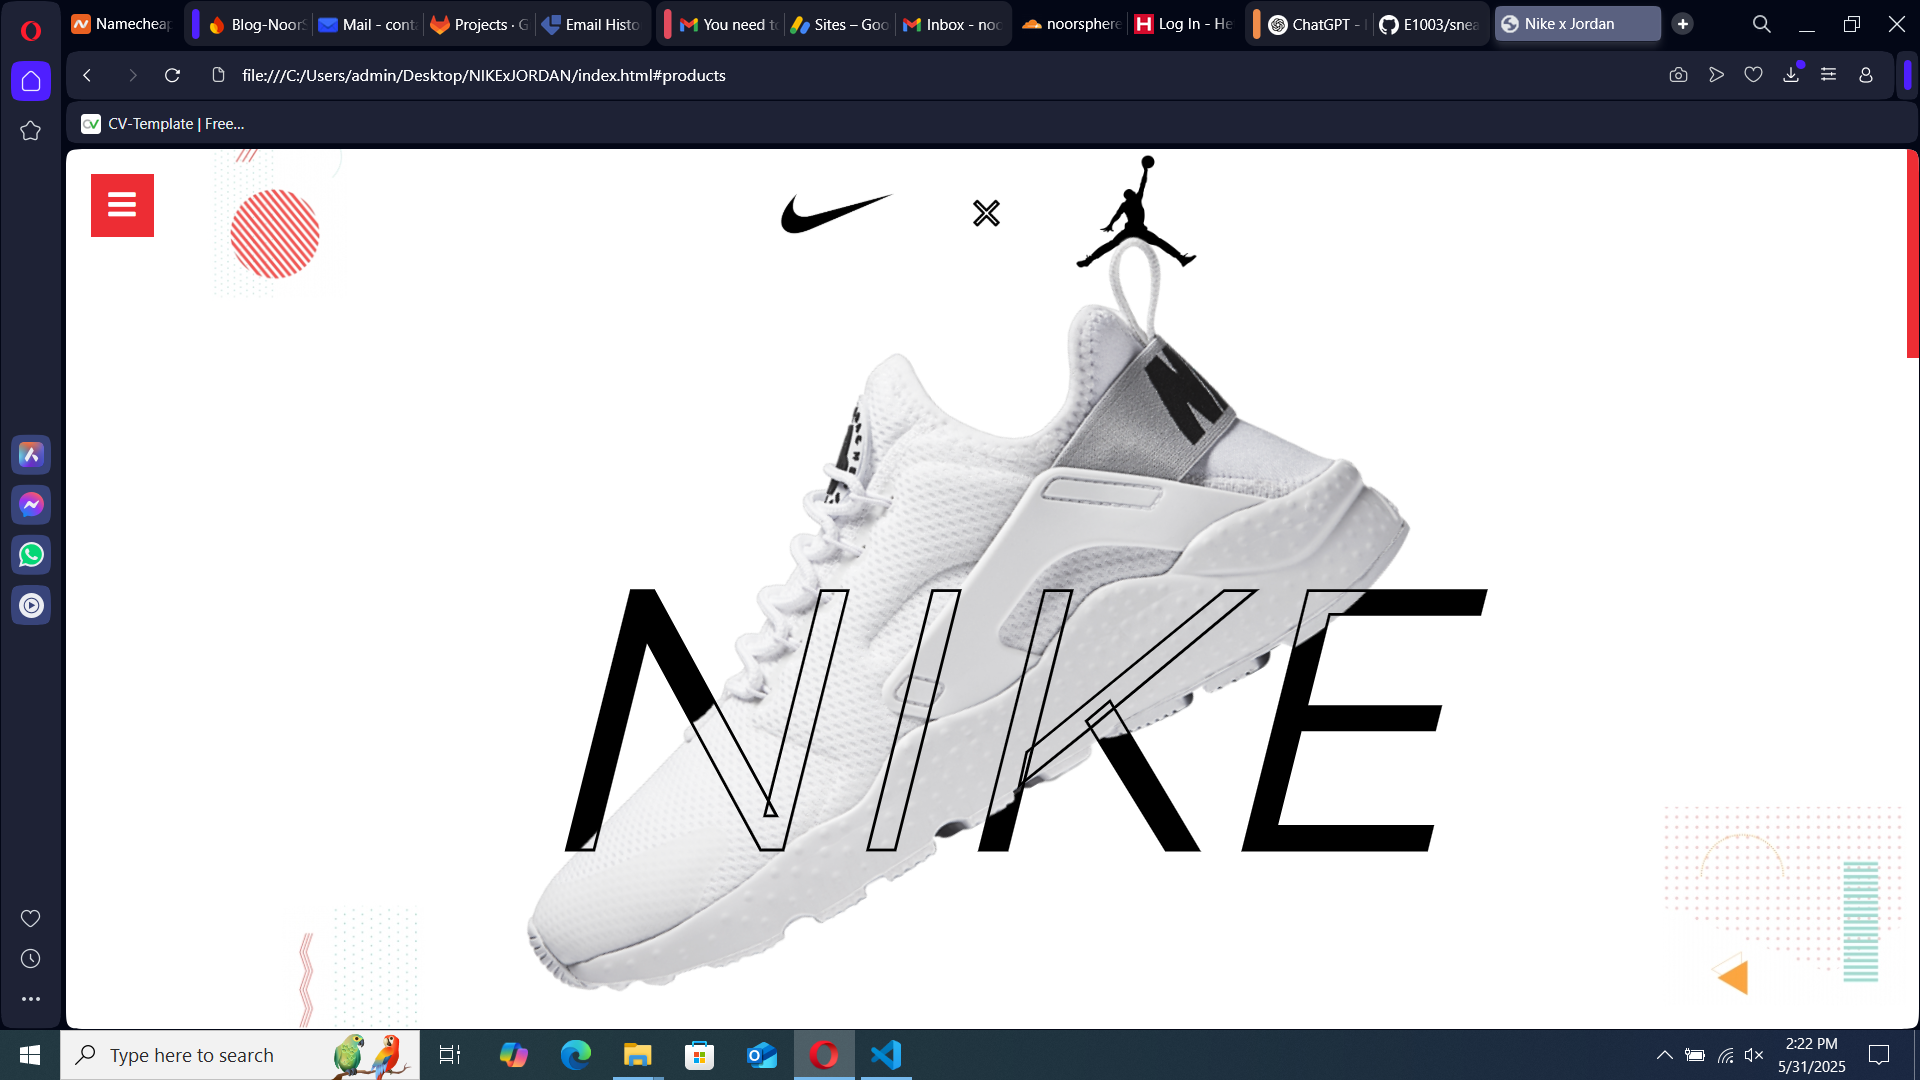
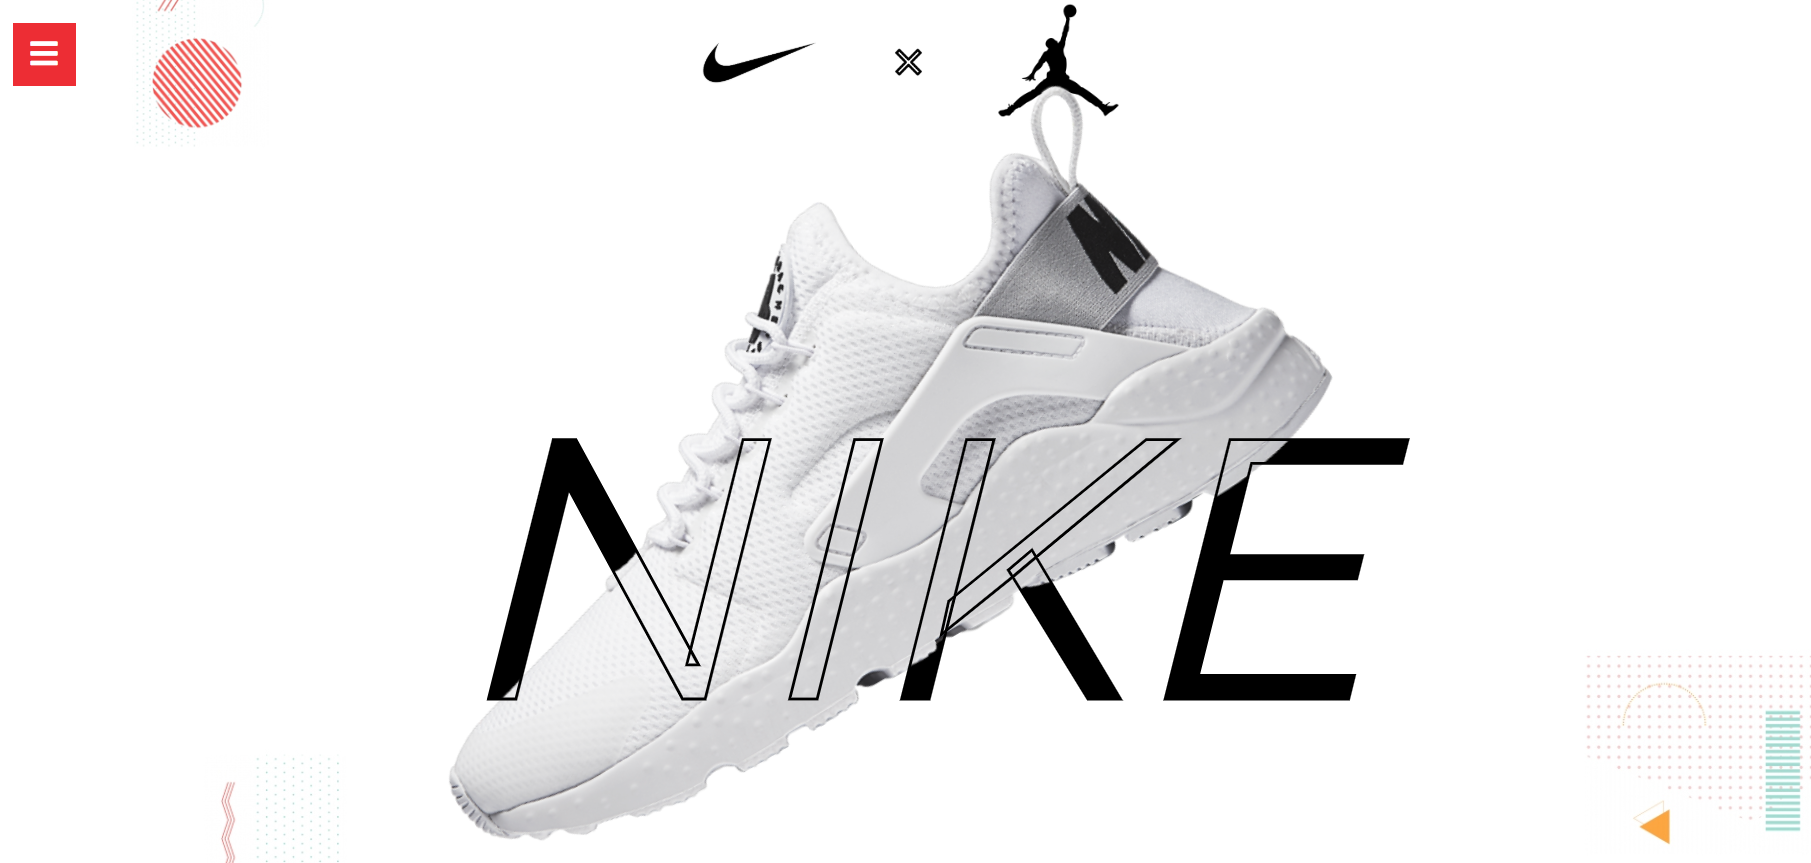
readme

diff --git a/README.md b/README.md
@@ -4,7 +4,7 @@ A fully responsive eCommerce web UI for Nike and Jordan sneakers, built with **H
 This project simulates a modern shopping experience with product cards, modal details, cart view, and customer testimonials.
 
 ![Hero Banner](screenshots/banner.png)
-![Product Section](screenshots/Screenshot (191).png)
+![Product Section](screenshots/products.png)
 
 ---
 
@@ -32,11 +32,11 @@ This project simulates a modern shopping experience with product cards, modal de
 
 | Section             | Preview                                          |
 |---------------------|--------------------------------------------------|
-| Hero Banner         | ![Hero](screenshots/Screenshot (191).png)        |
-| Product Gallery     | ![Products](screenshots/Screenshot (192).png)    |
-| Product Details     | ![Modal](screenshots/Screenshot (193).png)       |
-| Reviews & Contact   | ![Reviews](screenshots/Screenshot (194).png)     |
-| Sidebar Cart        | ![Cart](screenshots/Screenshot (195).png)        |
+| Hero Banner         | ![Hero](screenshots/banner.png)                  |
+| Product Gallery     | ![Products](screenshots/products.png)            |
+| Product Details     | ![Products details](screenshots/details.png)     |
+| Reviews & Contact   | ![Reviews](screenshots/Reviews.png)              |
+| Sidebar Cart        | ![Cart](screenshots/cart.png)                    |
 
 ---
 
